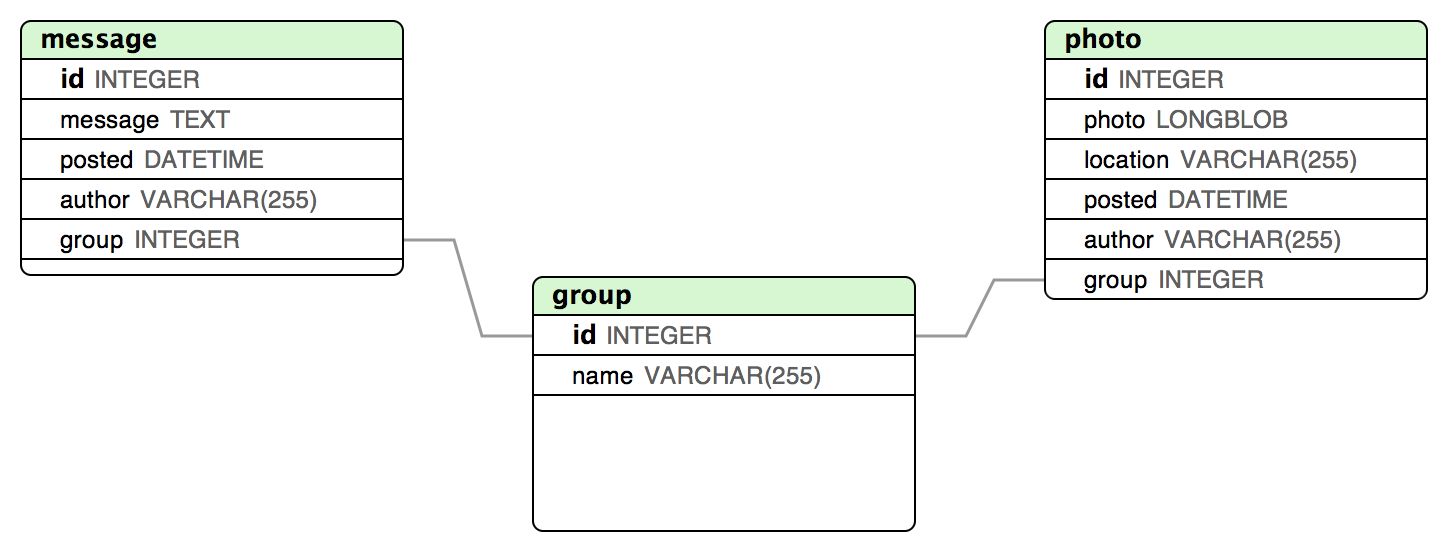
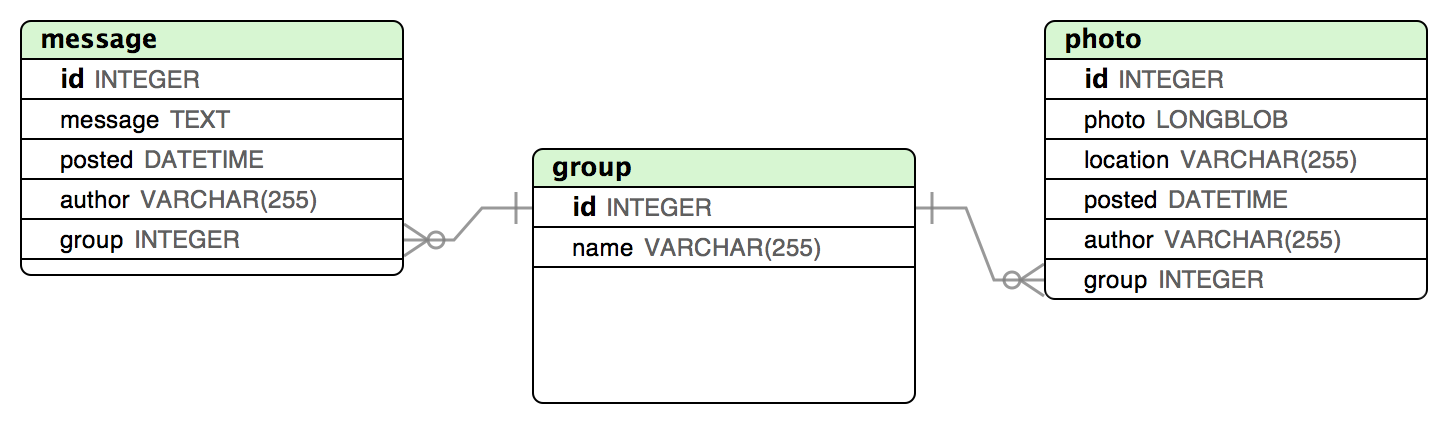
Wrote task IO and II

diff --git a/README.html b/README.html
@@ -35,7 +35,8 @@
                 </header>
                 <section class="column width2 first">
                     <div class="column width2 first">
-                        <p>This document describes the tasks for the Regionalmeisterschaft 2013 in Application Development. You have 2 hours 30 minutes to complete as many tasks as possible without the use of the Internet or any other form of communication. Each task has a short description, you’re expected to apply your knowledge and experience to implement your own solutions with the tools provided.</p>
+                        <p>This document describes the tasks for the Regionalmeisterschaft 2013 in Application Development. You have 2 hours 30 minutes to complete as many tasks as possible without the use of the Internet or any other form of communication.
+                            Each task has a short description, you’re expected to apply your knowledge and experience to implement your own solutions with the tools provided. You can use PHP or Java as a programming language.</p>
                         <h5>The project</h5>
                         <p>The project is a social network where people can sign up, connect with friends and share messages and photos with each other.</p>
                         <p>Parts of the functionality are not finished yet and need to be implemented by you. You are free to use and extend existing parts of the project or implement your own.</p>
@@ -96,24 +97,31 @@
                     </div>
                     <div class="column unitx3">
                         <p>The model of the application has different entities (message, photo and group) which are not implemented yet.</p>
-                        <p>Your task is to create 3 new tables in the MySQL database according to the following ERM diagram.
-                            It’s your job to define appropriate column definitions (not null, default, auto increment, unique, foreign key).</p>
-                        <p class="inline">&nbsp;<br><a href="readme/images/erm.png" class="fancybox"><img src="readme/images/erm.png" height="121" alt="ERM"></a></p>
+                        <p>Your task is to create 3 new tables in the MySQL database according to the following ERM diagram. It’s your job to define appropriate column definitions (not null, default, auto increment, unique, foreign key).</p>
+                        <p>Messages and photos can be posted into groups. A group consists of an ID and a name. Each group can have multiple messages and photos.
+                            A message consists of an ID, a textual message, the date it was posted, the author and the group it belongs to. A photo consists of an ID, a binary photo, the location it was taken, the date it was posted, the author and the group it belongs to.</p>
+                        <p class="inline">&nbsp;<br><a href="readme/images/erm.png" class="fancybox"><img src="readme/images/erm.png" height="103" alt="ERM"></a></p>
                     </div>
                     <div class="column unitx1 first">
-                        <h4>Task I0: Home and Detail</h4>
+                        <h4>Task I0: Home, Message and Photo</h4>
                         <p style="text-align: right;">ca. 50 min</p>
                     </div>
                     <div class="column unitx3">
-                        <p>The <a href="design/index.html">design</a> of the application has been implemented in HTML an ready to be extended with functionality.</p>
-                        <p>Your task is to implement the home and detail pages of the application with the either PHP or Java.</p>
+                        <p>The <a href="design/index.html">design</a> of the application has been implemented in HTML and is ready to be extended with functionality.</p>
+                        <p>Your task is to implement the home, message and photo page of the application. On the <a href="design/index.html">home page</a> all message and photos from the database should be displayed in chronological order (newest first).
+                            Each message should be displayed along with the date and its author. Each photo should be displayed scaled down.</p>
+                        <p>A link below each message on the home page should lead to a separate <a href="design/message.html">message page</a>. The URL to this message page should be bookmarkable. In addition the group in which the message was posted in should be displayed.</p>
+                        <p>Each photo on the home page should link to a separate <a href="design/photo.html">photo page</a> where the photo is displayed in large along with the date it was posted, the author, the location it was taken and the group it was posted in.</p>
+                        <p>A breadcrumb on both the message and the photo page should link back to the home page.</p>
                     </div>
                     <div class="column unitx1 first">
                         <h4>Task II: Group</h4>
                         <p style="text-align: right;">ca. 20 min</p>
                     </div>
                     <div class="column unitx3">
-                        <p>TODO</p>
+                        <p>Each group has a separate <a href="design/group.html">group page</a> which shows only the messages and photos posted to that specific group.</p>
+                        <p>Your task is to implement the group page in the same way as the home page, but filtered by the group. The URL to this group page should be bookmarkable. A breadcrumb on the group page should link back to the home page.</p>
+                        <p>Also implement the groups dropdown in the upper right corner on every page. It should list all groups and link to their group pages.</p>
                     </div>
                     <div class="column unitx1 first">
                         <h4>Task I00: Post Message</h4>
